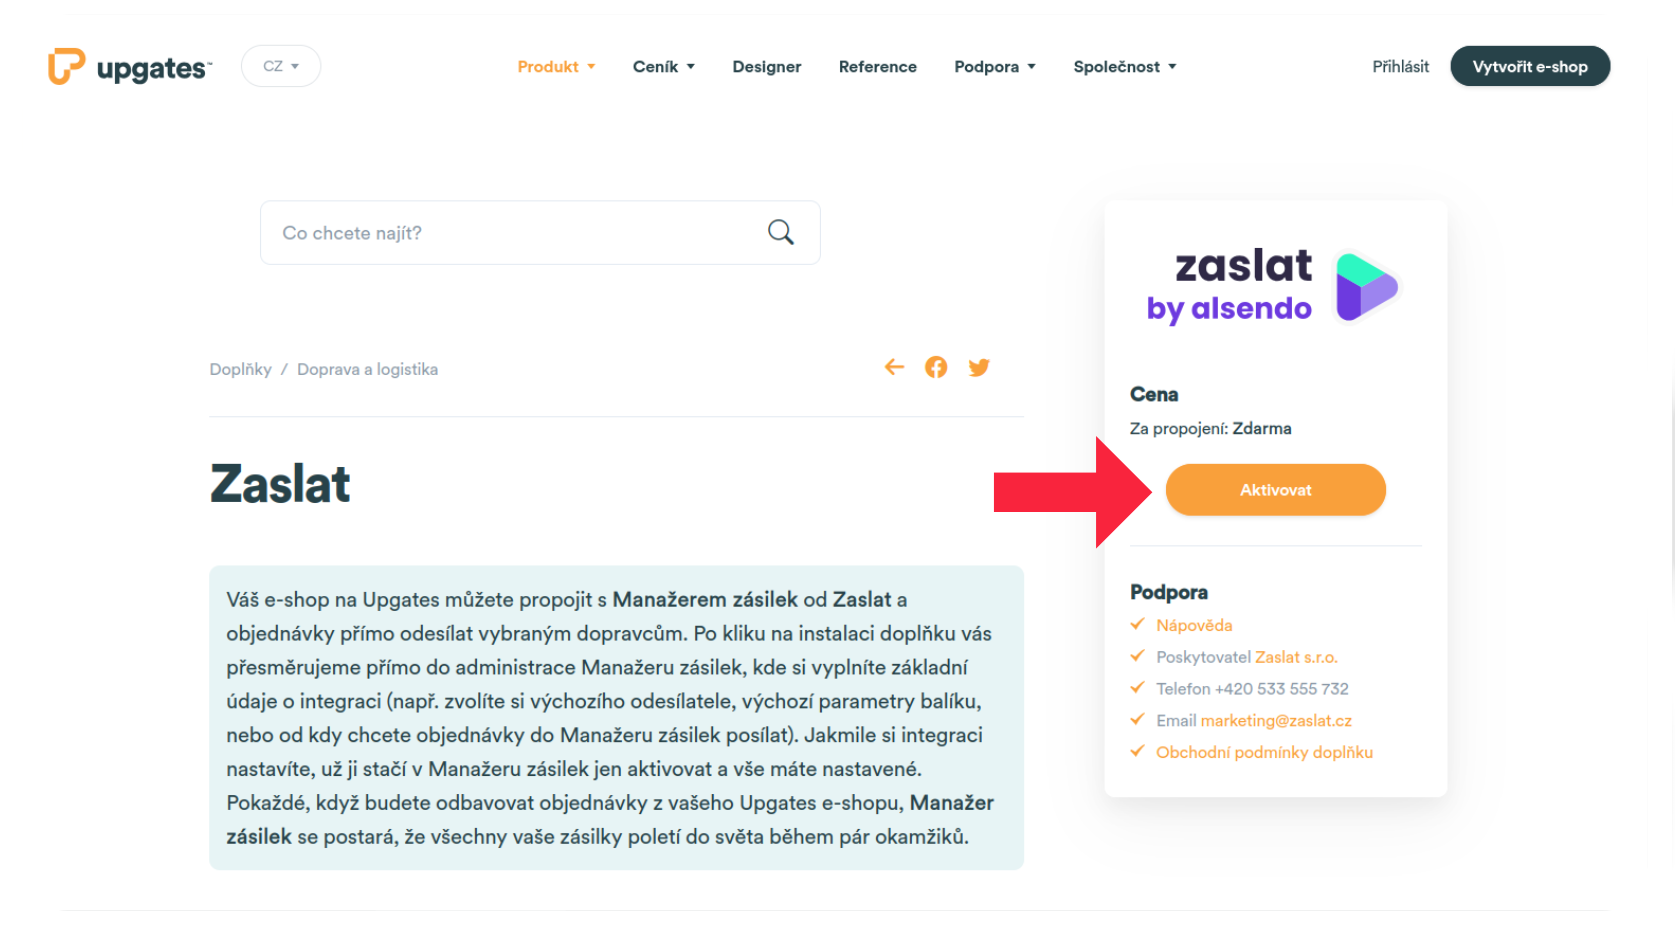
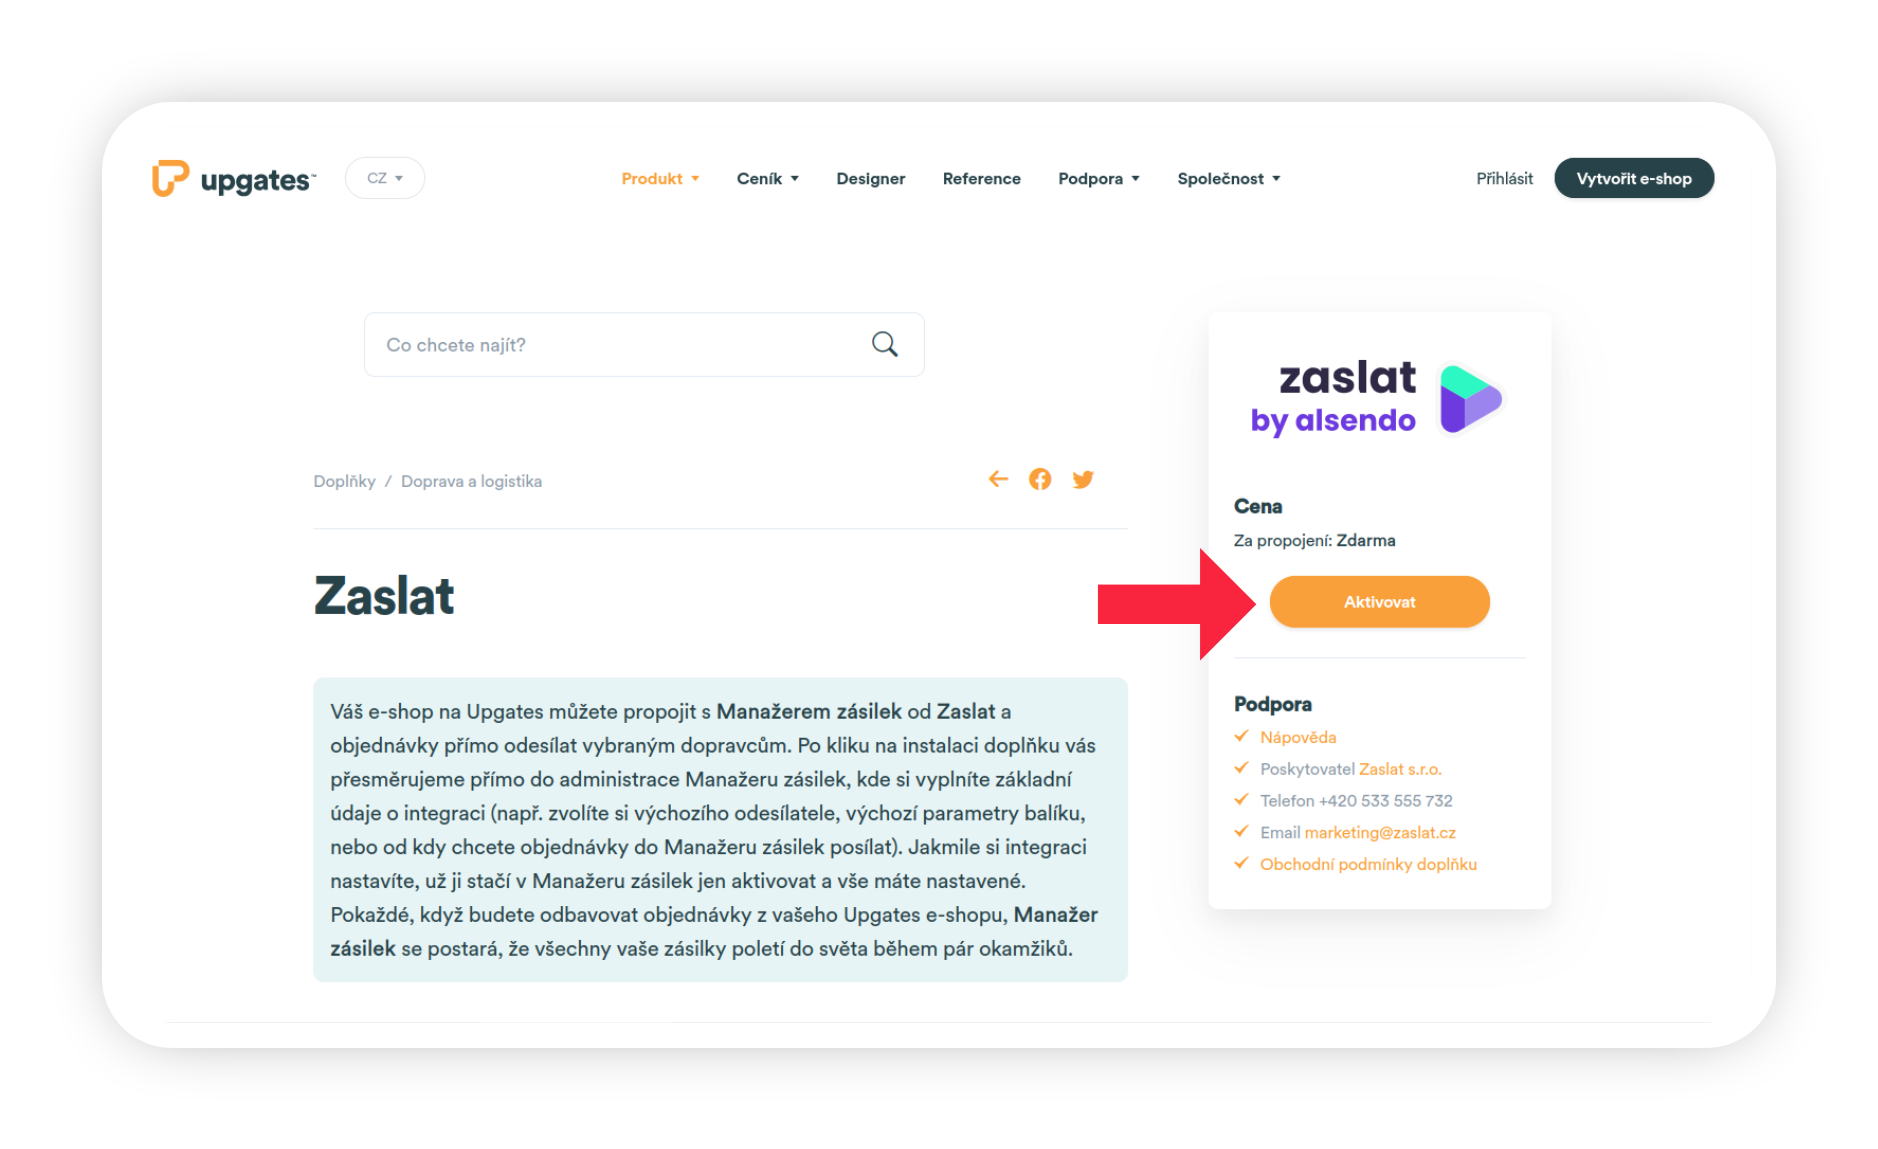
Update upgates docs

diff --git a/docs/.vitepress/theme/style.css b/docs/.vitepress/theme/style.css
@@ -137,30 +137,30 @@
   --docsearch-primary-color: var(--vp-c-brand-1) !important;
 }
 
-:root {
-  --vp-layout-max-width: 1920px;
-}
+/*:root {*/
+/*  --vp-layout-max-width: 1920px;*/
+/*}*/
 
-.VPDoc:not(.has-sidebar) .container {
-  max-width: 1584px !important;
-}
+/*.VPDoc:not(.has-sidebar) .container {*/
+/*  max-width: 1584px !important;*/
+/*}*/
 
-.VPDoc:not(.has-sidebar) .content {
-  max-width: 1264px !important;
-}
+/*.VPDoc:not(.has-sidebar) .content {*/
+/*  max-width: 1264px !important;*/
+/*}*/
 
-.VPDoc.has-aside .content-container {
-  max-width: 1168px !important;
-}
+/*.VPDoc.has-aside .content-container {*/
+/*  max-width: 1168px !important;*/
+/*}*/
 
 /**
  * Content: Format
  * -------------------------------------------------------------------------- */
 
 img {
-  margin: 2em;
-  border-radius: .625rem;
-  box-shadow: 0 0.25rem 0.5rem rgba(0,0,0,0.05),0 0.625rem 1.875rem rgba(0,0,0,0.05);
+  margin: 0;
+  /*border-radius: .625rem;*/
+  /*box-shadow: 0 0.25rem 0.5rem rgba(0,0,0,0.05),0 0.625rem 1.875rem rgba(0,0,0,0.05);*/
 }
 
 .vp-doc p {

diff --git a/docs/cz/docs/integrations/upgates.md b/docs/cz/docs/integrations/upgates.md
@@ -8,7 +8,13 @@ head:
       content: Upgates návod na zprovoznění pluginu
   - - meta
     - name: keywords
-      content: upgates integrace
+      content: upgates integrace 
+  - - meta
+    - property: og:url
+      content: /cscod/cz/docs/integrations/upgates.html  
+  - - meta
+    - property: og:type
+      content: article
       
 editLink: true
 outline: deep
@@ -17,38 +23,52 @@ lastUpdated: true
 
 # UpGates eshop
 
+![Upgates eshop](../../../assets/docs/integrations/upgates-logo.png)
+
+
 ## Návod na spuštění integrace Upgates s Manažerem zásilek
 
-::: info NÁVOD
-➡ Chcete si stáhnout návod k vám do počítače? PDF s návodem najdete zde:
-::: 
+**S naší integrací nemusíte objednávky přepravy zásilek do [Zaslat](http://zaslat.cz/) zadávat ručně, stačí si na pár kliknutí nastavit propojení a objednávky odbavovat jedním tahem.**
 
-S naší integrací nemusíte objednávky přepravy zásilek do Zaslat zadávat ručně, stačí si na pár kliknutí nastavit propojení a objednávky odbavovat jedním tahem.
-
-::: tip TIP 
-Díky tomuto řešení odpadá veškeré stahování a nahrávání CSV souborů nebo ruční editace souborů v tabulkovém procesoru.
+::: tip Náš tip
+➡ **Díky tomuto řešení odpadá veškeré stahování a nahrávání CSV souborů nebo ruční editace souborů v tabulkovém procesoru.**
 :::
+
 Díky integraci se vám údaje o zásilkách z Upgates nahrají do Manažeru zásilek automaticky. A co více, pokud bude v datech nějaký nedostatek (například zákazník vyplní chybné telefonní číslo), tak můžete tento nedostatek přímo v Manažeru zásilek napravit.
 
 Následně lze vše naráz objednat, objednat jen některé zásilky nebo snadno změnit dopravce. Možností je mnoho.
 
-## Nastavení integrace
+## **Nastavení integrace**
 
-### Aktivace pluginu do Upgates
+### **Aktivace pluginu do Upgates**
 
-Navštivte webové stránky Upgates na následující adrese:[**https://doplnky.upgates.cz/detail/zaslat**](https://doplnky.upgates.cz/detail/zaslat)
+Navštivte webové stránky Upgates na následující adrese: [**https://doplnky.upgates.cz/detail/zaslat**](https://doplnky.upgates.cz/detail/zaslat)
 
 Dostanete se na stránku pluginu Zaslat, který si nyní aktivujte (Obr. 1).
 
-![Karta pluginu Zaslat v Upgates](images/upGates-install-step1.png)
+![obr1](images/upGates-install-step1.png)
 
 _Obrázek 1: Karta pluginu Zaslat v Upgates_
 
 Plugin Zaslat se vám nahraje přímo do administrace doplňků ve vašem e-shopu od Upgates. Tady opět klikněte na tlačítko Aktivovat (Obr. 2).
 
-![Odsouhlaseni instalace](images/upGates-install-step2.png)
+![obr2](images/upGates-install-step2.png)
 
-## **Nastavení v Zaslat**
+_Obrázek 2: Aktivace pluginu Zaslat v Upgates_
+
+Vyskakovací okno potvrďte (Obr. 3). 
+
+![obr3](images/upGates-install-step3.png)
+
+_Obrázek 3: Potvrzení aktivace doplňku_
+
+Po kliknutí na tlačítko Potvrdit vás systém přesměruje do Manažera zásilek od Zaslat (Obr. 4), kde dokončíte integraci. V případě, že již máte účet pro firmy na Zaslat, přihlaste se. V opačném případě se můžete zdarma zaregistrovat a využívat všechny výhody Zaslat pro firmy.
+
+![obr4](images/upGates-install-step4.png)
+
+_Obrázek 4: Přihlášení/registrace do Manažera zásilek od Zaslat_
+
+# **Nastavení v Zaslat**
 
 Zvolte si libovolný Název této integrace (Obr. 5, krok 1). V řádku **Stahovat objednávky** (Obr. 5, krok 2) zvolte jednu z možností - **Všechny objednávky**, **Jen ve stavu Zaslat**, **Jen ve stavu Zpracovává se**, nebo si případně můžete definovat **Vlastní stav**.
 
@@ -60,40 +80,123 @@ Pokud má každá vaše zásilka jiný rozměru a váhu, můžete tuto možnost 
 
 Na závěr klikněte na tlačítko **Uložit změny** (Obr. 5, krok 5).
 
+![obr5](images/upGates-install-step5.png)
+
+_Obrázek 5: Nastavení integrace v Manažeru zásilek_
+
 ## **Další nastavení v Upgates**
 
-### **Zapnutí mapy výdejních míst**
+### Nastavení dopravců v Upgates
 
-Abyste mohli na svém e-shopu využít nejen službu dodání na adresu, ale i do výdejního místa (boxu nebo prodejny), je nutné ještě nastavit výběr dopravců, díky kterým se ve vašem e-shopu při objednávání dopravy zobrazí naše mapa výdejních míst.
+#### Výběr z přednastavených dopravců
 
-**Zaslat v současné době nabízí v Česku více než 33 000 sběrných a výdejních míst. To je nejvíce na českém trhu v jediném uživatelském účtu.**
+V nové verzi integrace už **nepoužíváme možnost „Vlastní přeprava“**, jak tomu bylo dříve, ale vybíráme z **přednastavených dopravců přímo v Upgates**.
 
-Otevřete si v levém menu záložku **Doplňky** (Obr. 6, krok 1), dále možnost **Vlastní konverzní kódy** (Obr. 6, krok 2). Do textového pole "Kód je umístěn před tagem body" vložte následující kód:
+::: warning Upgates rozděluje dopravu do dvou kategorií
+:::
+- **Doručení na adresu zákazníka**
+- **Doručení na výdejní místa**
 
-```javascript
-<script>(function(d){var s=d.createElement('script');s.async=true;s.src="https://app.zaslat.cz/map/upgates.js";d.head.appendChild(s);})(document)</script>
-```
+❗ Z dostupných dopravců **nepodporujeme tyto možnosti**:
 
-Na závěr uložte oranžovým tlačítkem Uložit (Obr. 6, krok 4).
+- Česká pošta – Balík do ruky
+- Slovenská pošta – Balík do ruky
+- Zásilkovna – Doručení domů
+
+::: tip Všechny ostatní přednastavené dopravce můžete použít.
+:::
+
+Pro nastavení dopravy klikněte v levém menu na položku **Nastavení** (Obr. 6, krok 1), dále možnost **Objednávky** (Obr. 6, krok 2) a zde zvolte možnost **Doprava** (Obr. 6, krok 3). Na pravé straně poté klikněte na tlačítko **Nová** (Obr. 6, krok 4).
+
+![obr6](images/upGates-install-step6.png)
+_Obrázek 6: Přidání dopravců z nabídky Upgates_
+
+---
+
+### Nastavení dopravy na adresu
+
+Klikněte na zvoleného dopravce (např. **GLS**, **PPL**, atd.) (Obr. 6, krok 5). Nastavte si parametry dopravy podle sebe 
+(např. název, cenu). V horní části nezapomeňte **zaškrtnout Aktivní** (Obr. 7, krok 1). Nakonec klikněte na **Uložit** 
+(Obr. 7, krok 2).
+
+![obr7](images/upGates-install-step7.png)
+_Obrázek 7: Nastavení dopravy na adresu_
+
+Pro doručení na adresu tímto máte hotovo.
+
+---
+
+### Nastavení dopravy na výdejní místa
+
+Tato nastavení se týkají dopravců s výdejními místy (např. **Balíkovna**, **GLS Parcel Shop**, **PPL Parcel Box**, atd.).
+
+❗ **Nepodporujeme**:
+
+- Česká pošta – Balík na poštu
+- Depo
+- Slovenská posta - balík na poštu
+- Slovenská pošta - BalíkoBOX
+
+Otevřete daného dopravce (např. **GLS – Výdejní místo**). Zaškrtněte možnost **Aktivovat pobočky** (Obr. 8, krok 1). 
+V rozbalovací nabídce **Pobočky** (Obr. 8, krok 2) zvolte konkrétní variantu – např. GLS Parcel Shop 
+(na výběr máte GLS Parcel Shop, GLS Parcel Box a obě varianty dohromady). Nahoře zaškrtněte **Aktivní** (Obr. 8, krok 3) 
+a klikněte na **Uložit** (Obr. 8, krok 4).
+
+![obr8](images/upGates-install-step8.png)
+_Obrázek 8: Nastavení dopravy na výdejní místa_
+
+Totéž platí i pro **PPL** – podporujeme všechny 3 možnosti.
+
+---
+
+Zásilkovna má trochu jiný způsob napojení a je potřeba ji rozdělit na **dva samostatné způsoby dopravy.**
+
+1. **Zásilkovna – Výdejní místo**
+2. **Zásilkovna – Z‑Boxy**
+
+Opět v nastavení Zásilkovny klikněte na Aktivovat pobočku (Obr. 9, krok 1). U obou variant bude v nastavení systém vyžadovat **API klíč** – můžete klidně zadat např. „zaslat“ (Obr. 9, krok 2). Poté opět Aktivujte (Obr. 9, krok 3) a klikněte na **Uložit** (Obr. 9, krok 14). Stejný postup opakujte, pokud chcete vašim zákazníkům nabídnout také Z-Boxy.
+
+![obr9](images/upGates-install-step9.png)
+_Obrázek 9: Napojení Zásilkovny_
+
+### Napojení dopravců FedEx, TOPTRANS a UPS
+
+Tyto dopravce **v seznamu přednastavených v Upgates nenajdete**.
+
+Proto je potřeba nastavit je **ručně jako Vlastní přepravu.** Vytvořte nového dopravce přes možnost **Vlastní přeprava** (Obr. 10, krok 1).
+
+![obr10](images/upGates-install-step10.png)
+Obrázek 10: Přidání dopravců FedEx, TOPTRANS a UPS
+
+Pojmenujte ho přesně: FedEx, Toptrans, nebo UPS (Obr. 11, krok 1). Nastavte další parametry dle potřeby, klikněte na tlačítko Aktivovat (Obr. 11, krok 2) a nakonec Uložte (Obr. 11, krok 3).
+
+![obr11](images/upGates-install-step11.png)
+_Obrázek 11: Nastavení dopravy FedEx (nebo TOPTRANS a UPS)_
 
 ## Nastavení stavů objednávek
 
-Aby se nepřenášely do Zaslat všechny objednávky z vašeho Upgates, ale jen ty, které chcete přes Zaslat skutečně poslat, musíte si v Upgates nastavit vlastní Stav objednávky. V levém menu klikněte na položku **Nastavení** (Obr. 7, krok 1), zvolte možnost **Objednávky** (Obr. 7, krok 2), poté klikněte v menu na možnost **Stavy** (Obr. 7, krok 3) a v pravém horním roku klikněte na tlačítko **Nový** (Obr. 7, krok 4).
+Aby se nepřenášely do Zaslat všechny objednávky z vašeho Upgates, ale jen ty, které chcete přes Zaslat skutečně poslat, musíte si v Upgates nastavit vlastní Stav objednávky. V levém menu klikněte na položku **Nastavení** (Obr. 12, krok 1), zvolte možnost **Objednávky** (Obr. 12, krok 2), poté klikněte v menu na možnost **Stavy** (Obr. 12, krok 3) a v pravém horním roku klikněte na tlačítko **Nový** (Obr. 12, krok 4).
 
-_Obrázek 7: Nastavení stavů objednávek_
+![obr12](images/upGates-install-step12.png)
+_Obrázek 12: Nastavení stavů objednávek_
 
-Do políčka Název (Obr. 8, krok 1) vepište Zaslat a klikněte na tlačítko Uložit (Obr. 8, krok 2).
+Do políčka Název (Obr. 13, krok 1) vepište Zaslat a klikněte na tlačítko Uložit (Obr. 13, krok 2).
 
-_Obrázek 8: Vytvoření nového stavu Zaslat_
+![obr13](images/upGates-install-step13.png)
+_Obrázek 13: Vytvoření nového stavu Zaslat_
 
 ## Přiřazení stavů k objednávkám
 
-Nyní máte nový stav objednávek vytvořený a můžete jej přiřadit ve vašich objednávkách. V detailu objednávky můžete změnit stav objednávky na nový vámi vytvořený stav [Zaslat.cz](http://zaslat.cz/) (Obr. 9).
+Nyní máte nový stav objednávek vytvořený a můžete jej přiřadit ve vašich objednávkách. V detailu objednávky můžete změnit stav objednávky na nový vámi vytvořený stav [Zaslat.cz](http://zaslat.cz/) (Obr. 14).
 
-_Obrázek 9: Přiřazení stavů k objednávkám_
+![obr14](images/upGates-install-step14.png)
+_Obrázek 14: Přiřazení stavů k objednávkám_
 
-## Přidání dopravců
+# **Import objednávek**
 
-Dalším krokem na straně Upgates je definice dopravy. Abyste mohli využívat služeb Zaslat, je nezbytné při definici (přidávání) dopravců dodržet správné pojmenování dopravce dle seznamu níže.
+## **Import objednávek do Zaslat a jejich úpravy**
 
-Pro nastavení dopravy klikněte v levém menu na položku **Nastavení** (Obr. 10, krok 1), dále možnost **Objednávky** (Obr. 10, krok 2) a zde zvolte možnost **Doprava** (Obr. 10, krok 3). Na pravé straně poté klikněte na tlačítko **Nové** a pod ním **Vlastní doprava** (Obr. 10, krok 4).
+Pokaždé, když budete posílat zásilky, už stačí jen v přehledu objednávek Manažera zásilek aktualizovat objednávky z integrací kliknutím na tlačítko **Synchronizovat integrace** (Obr. 15, krok 1) v pravém horním rohu a všechny objednávky z Upgates vám zobrazíme v uceleném přehledu. Přeprava v tento moment ještě není objednaná, v každé objednávce si můžete cokoliv upravit - adresu odesílatele, příjemce, rozměry, váhu, dobírku, i dopravce. Jakmile si vše zkontrolujete, můžete **Objednat** (Obr. 15, krok 2).
+
+![obr15](images/upGates-install-step15.png)
+Obrázek 15: Import objednávek

diff --git a/docs/cz/docs/integrations/import.md b/docs/cz/docs/integrations/import.md
@@ -25,9 +25,11 @@ lastUpdated: true
 V případě zásilek s dopravce Balíkovna, musíte v import souboru dodžet následující pravidla:
  - sloupec `carrier` obsahuje kod `balikovna`
 
+::: tip TIP
 U **Balíkovny** musíte specifikovat jak podací tak výdejní místo. Toto je podmínka pro vytvoření nabídky dopravy. Importní soubor tedy bude obsahovat minimálně tyto dva sloupce specifikující **podací** a **výdejní** místo **Balikovny**:
  - `pickup_branch_code`  - může obsahovat jakýkoliv kód, je jedno kam je zásilka odnesena ale musí to být kód balíkovny
  - `delivery_branch_code` - kód místa pro vyzvednutí
+:::
 
 Sloupce zásilek obsahují kody podacích výdejních míst balíkovny.
 

diff --git a/docs/cz/docs/integrations/pripravujeme.md b/docs/cz/docs/integrations/pripravujeme.md
@@ -1,0 +1,21 @@
+---
+title: Pripravujeme
+description: Připravované integrace
+
+head:
+  - - meta
+    - name: description
+      content: Připravované integrace
+
+  - - meta
+    - name: keywords
+      content: pripravujeme integrace
+      
+editLink: true
+outline: deep
+lastUpdated: true
+---
+
+# Připravujeme
+
+Aktuálně máme v příprave platformu [Fastcentrik](https://www.fastcentrik.cz/)
